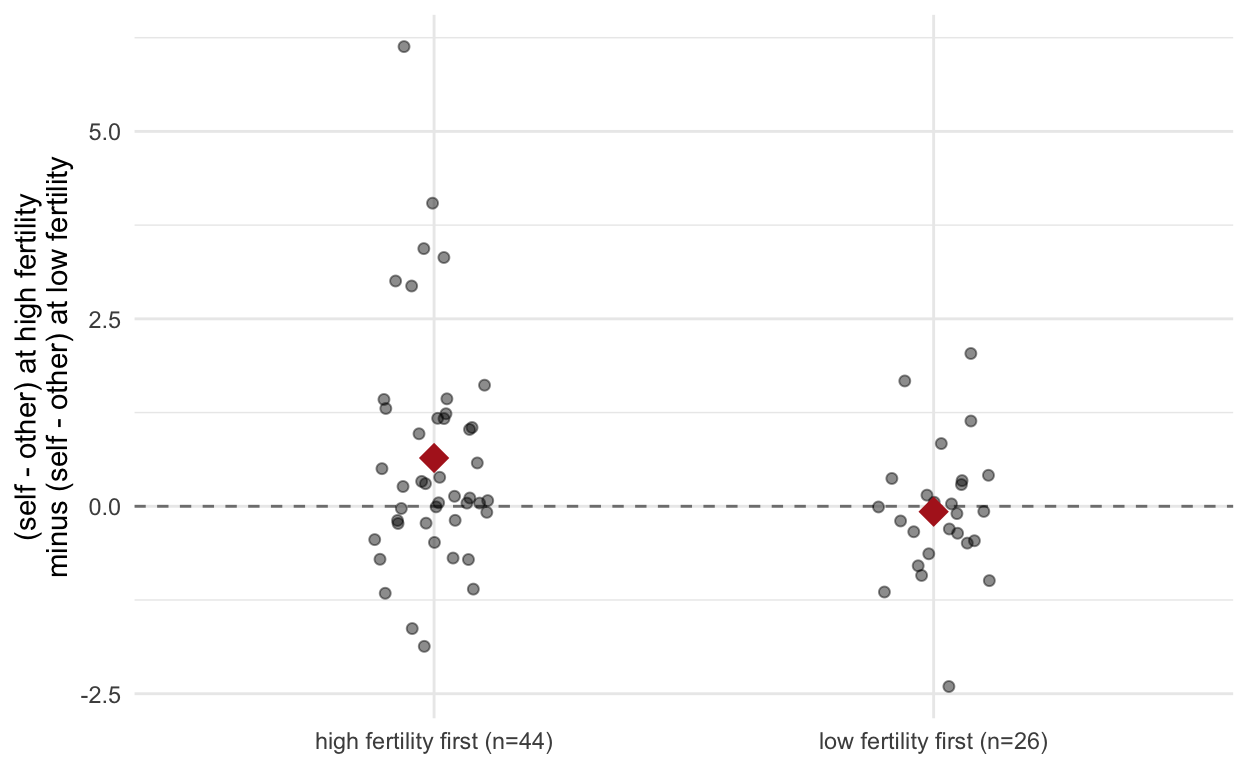
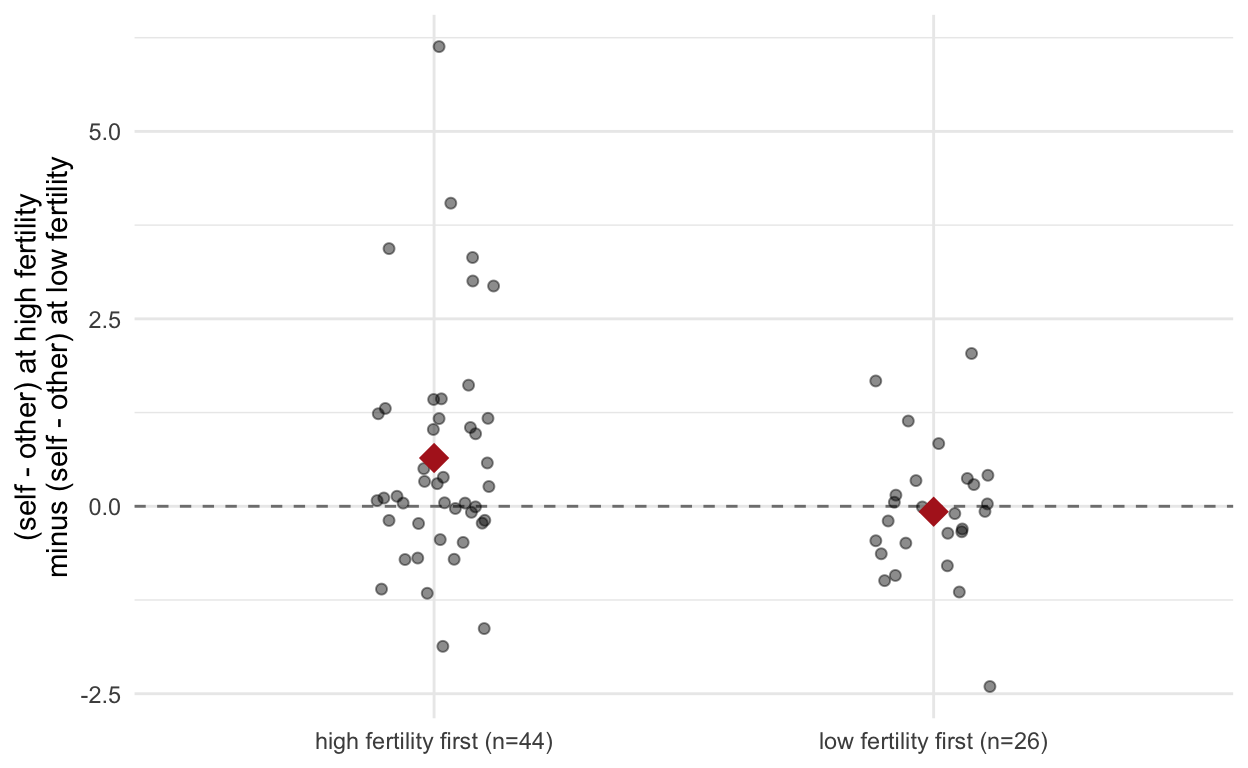
HIBAR fertility post: add quick job tag, rerender
Claude-Session: https://claude.ai/code/session_01QB5en1d2h5MmZbRRdCMwAw

diff --git a/posts/2026-09-11-hibar-fertility-and-conspicuous-consumption/index.html b/posts/2026-09-11-hibar-fertility-and-conspicuous-consumption/index.html
@@ -134,7 +134,7 @@ code span.wa { color: #5e5e5e; font-style: italic; } /* Warning */
   <!--radix_placeholder_rmarkdown_metadata-->
 
 <script type="text/json" id="radix-rmarkdown-metadata">
-{"type":"list","attributes":{"names":{"type":"character","attributes":{},"value":["creative_commons","title","description","author","date","categories","output","citation_url","canonical_url"]}},"value":[{"type":"character","attributes":{},"value":["CC BY"]},{"type":"character","attributes":{},"value":["HIBAR: Fertility and Conspicuous Consumption"]},{"type":"character","attributes":{},"value":["Had I Been a Reviewer."]},{"type":"list","attributes":{},"value":[{"type":"list","attributes":{"names":{"type":"character","attributes":{},"value":["name","url","affiliation"]}},"value":[{"type":"character","attributes":{},"value":["Ruben C. Arslan"]},{"type":"character","attributes":{},"value":["https://rubenarslan.github.io"]},{"type":"character","attributes":{},"value":["Psychological Research Methods, University Witten/Herdecke"]}]}]},{"type":"character","attributes":{},"value":["2026-09-11"]},{"type":"character","attributes":{},"value":["HIBAR","post-publication review","fertility","menstrual cycle","ERROR"]},{"type":"list","attributes":{"names":{"type":"character","attributes":{},"value":["distill::distill_article"]}},"value":[{"type":"list","attributes":{"names":{"type":"character","attributes":{},"value":["self_contained"]}},"value":[{"type":"logical","attributes":{},"value":[false]}]}]},{"type":"character","attributes":{},"value":["https://rubenarslan.github.io/posts/2026-09-11-hibar-fertility-and-conspicuous-consumption/"]},{"type":"character","attributes":{},"value":["https://rubenarslan.github.io/posts/2026-09-11-hibar-fertility-and-conspicuous-consumption/"]}]}
+{"type":"list","attributes":{"names":{"type":"character","attributes":{},"value":["creative_commons","title","description","author","date","categories","output","citation_url","canonical_url"]}},"value":[{"type":"character","attributes":{},"value":["CC BY"]},{"type":"character","attributes":{},"value":["HIBAR: Fertility and Conspicuous Consumption"]},{"type":"character","attributes":{},"value":["Had I Been a Reviewer."]},{"type":"list","attributes":{},"value":[{"type":"list","attributes":{"names":{"type":"character","attributes":{},"value":["name","url","affiliation"]}},"value":[{"type":"character","attributes":{},"value":["Ruben C. Arslan"]},{"type":"character","attributes":{},"value":["https://rubenarslan.github.io"]},{"type":"character","attributes":{},"value":["Psychological Research Methods, University Witten/Herdecke"]}]}]},{"type":"character","attributes":{},"value":["2026-09-11"]},{"type":"character","attributes":{},"value":["HIBAR","post-publication review","fertility","menstrual cycle","ERROR","quick job"]},{"type":"list","attributes":{"names":{"type":"character","attributes":{},"value":["distill::distill_article"]}},"value":[{"type":"list","attributes":{"names":{"type":"character","attributes":{},"value":["self_contained"]}},"value":[{"type":"logical","attributes":{},"value":[false]}]}]},{"type":"character","attributes":{},"value":["https://rubenarslan.github.io/posts/2026-09-11-hibar-fertility-and-conspicuous-consumption/"]},{"type":"character","attributes":{},"value":["https://rubenarslan.github.io/posts/2026-09-11-hibar-fertility-and-conspicuous-consumption/"]}]}
 </script>
 <!--/radix_placeholder_rmarkdown_metadata-->
   
@@ -2220,6 +2220,7 @@ gtag('config', 'UA-2102103-6');
   <a href="../../blog.html#category:fertility" class="dt-tag">fertility</a>
   <a href="../../blog.html#category:menstrual_cycle" class="dt-tag">menstrual cycle</a>
   <a href="../../blog.html#category:ERROR" class="dt-tag">ERROR</a>
+  <a href="../../blog.html#category:quick_job" class="dt-tag">quick job</a>
 </div>
 <!--/radix_placeholder_categories-->
 <p><p>Had I Been a Reviewer.</p></p>

diff --git a/_posts/2026-09-11-hibar-fertility-and-conspicuous-consumption/hibar-fertility-and-conspicuous-consumption.html b/_posts/2026-09-11-hibar-fertility-and-conspicuous-consumption/hibar-fertility-and-conspicuous-consumption.html
@@ -114,7 +114,7 @@ code span.wa { color: #5e5e5e; font-style: italic; } /* Warning */
   <!--radix_placeholder_rmarkdown_metadata-->
 
   <script type="text/json" id="radix-rmarkdown-metadata">
-  {"type":"list","attributes":{"names":{"type":"character","attributes":{},"value":["title","description","author","date","categories","output"]}},"value":[{"type":"character","attributes":{},"value":["HIBAR: Fertility and Conspicuous Consumption"]},{"type":"character","attributes":{},"value":["Had I Been a Reviewer. \n"]},{"type":"list","attributes":{},"value":[{"type":"list","attributes":{"names":{"type":"character","attributes":{},"value":["name","url","affiliation"]}},"value":[{"type":"character","attributes":{},"value":["Ruben C. Arslan"]},{"type":"character","attributes":{},"value":["https://rubenarslan.github.io"]},{"type":"character","attributes":{},"value":["Psychological Research Methods, University Witten/Herdecke"]}]}]},{"type":"character","attributes":{},"value":["2026-09-11"]},{"type":"character","attributes":{},"value":["HIBAR","post-publication review","fertility","menstrual cycle","ERROR"]},{"type":"list","attributes":{"names":{"type":"character","attributes":{},"value":["distill::distill_article"]}},"value":[{"type":"list","attributes":{"names":{"type":"character","attributes":{},"value":["self_contained"]}},"value":[{"type":"logical","attributes":{},"value":[false]}]}]}]}
+  {"type":"list","attributes":{"names":{"type":"character","attributes":{},"value":["title","description","author","date","categories","output"]}},"value":[{"type":"character","attributes":{},"value":["HIBAR: Fertility and Conspicuous Consumption"]},{"type":"character","attributes":{},"value":["Had I Been a Reviewer. \n"]},{"type":"list","attributes":{},"value":[{"type":"list","attributes":{"names":{"type":"character","attributes":{},"value":["name","url","affiliation"]}},"value":[{"type":"character","attributes":{},"value":["Ruben C. Arslan"]},{"type":"character","attributes":{},"value":["https://rubenarslan.github.io"]},{"type":"character","attributes":{},"value":["Psychological Research Methods, University Witten/Herdecke"]}]}]},{"type":"character","attributes":{},"value":["2026-09-11"]},{"type":"character","attributes":{},"value":["HIBAR","post-publication review","fertility","menstrual cycle","ERROR","quick job"]},{"type":"list","attributes":{"names":{"type":"character","attributes":{},"value":["distill::distill_article"]}},"value":[{"type":"list","attributes":{"names":{"type":"character","attributes":{},"value":["self_contained"]}},"value":[{"type":"logical","attributes":{},"value":[false]}]}]}]}
   </script>
   <!--/radix_placeholder_rmarkdown_metadata-->
   
@@ -1541,6 +1541,7 @@ code span.wa { color: #5e5e5e; font-style: italic; } /* Warning */
 <div class="dt-tag">fertility</div>
 <div class="dt-tag">menstrual cycle</div>
 <div class="dt-tag">ERROR</div>
+<div class="dt-tag">quick job</div>
 </div>
 <!--/radix_placeholder_categories-->
 <p><p>Had I Been a Reviewer.</p></p>

diff --git a/blog.html b/blog.html
@@ -2322,7 +2322,7 @@ function init_posts_list() {
 <div class="posts-list">
 <h1 class="posts-list-caption" data-caption="One lives only to make blunders">One lives only to make blunders</h1>
 <a href="posts/2026-09-11-hibar-fertility-and-conspicuous-consumption/" class="post-preview">
-<script class="post-metadata" type="text/json">{"categories":["HIBAR","post-publication review","fertility","menstrual cycle","ERROR"]}</script>
+<script class="post-metadata" type="text/json">{"categories":["HIBAR","post-publication review","fertility","menstrual cycle","ERROR","quick job"]}</script>
 <div class="metadata">
 <div class="publishedDate">Sept. 11, 2026</div>
 <div class="dt-authors">
@@ -2340,6 +2340,7 @@ function init_posts_list() {
 <div class="dt-tag">fertility</div>
 <div class="dt-tag">menstrual cycle</div>
 <div class="dt-tag">ERROR</div>
+<div class="dt-tag">quick job</div>
 </div>
 <p>Had I Been a Reviewer.</p>
 </div>
@@ -3053,7 +3054,7 @@ varying slopes in a model.</p>
 </li>
 <li>
 <a href="#category:quick_job">quick job</a>
-<span class="category-count">(5)</span>
+<span class="category-count">(6)</span>
 </li>
 <li>
 <a href="#category:re-analysis">re-analysis</a>
